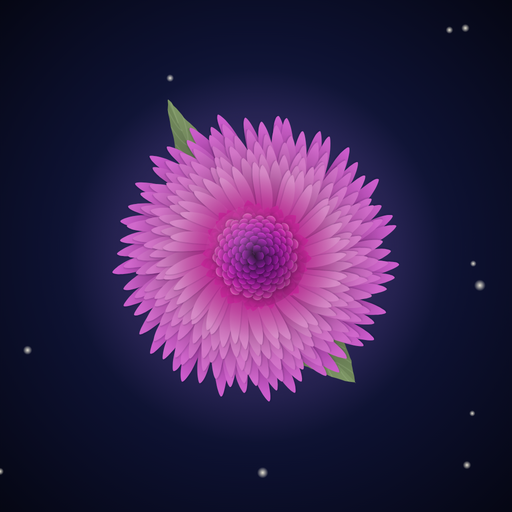
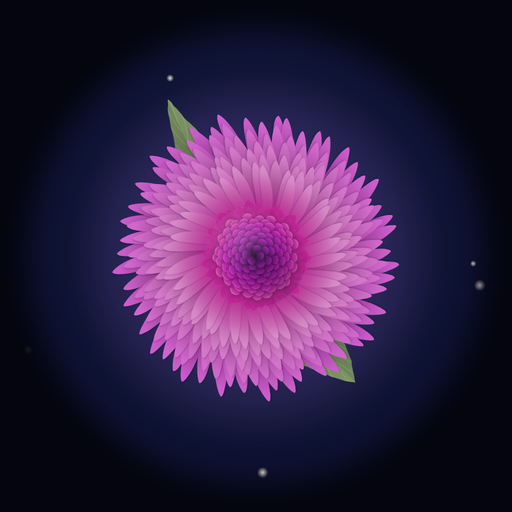
앱 아이콘: 바탕이 가장자리에서 실행 화면 바탕색(#04050f)으로 스러지게 — 처음 뜰 때 네모 경계가 보이지 않게
Claude-Session: https://claude.ai/code/session_011uarRdNqR6YjqzYxG4Jp2E

diff --git a/index.html b/index.html
@@ -36,11 +36,11 @@
 </script>
 <meta name="viewport" content="width=device-width,initial-scale=1,viewport-fit=cover">
 <title>서천꽃밭</title>
-<link rel="manifest" href="manifest.webmanifest?v=2">
-<link rel="apple-touch-icon" href="apple-touch-icon.png?v=2">
-<link rel="icon" href="favicon.ico?v=2" sizes="any">
-<link rel="icon" type="image/png" sizes="32x32" href="favicon-32.png?v=2">
-<link rel="icon" type="image/png" sizes="192x192" href="icon-192.png?v=2">
+<link rel="manifest" href="manifest.webmanifest?v=3">
+<link rel="apple-touch-icon" href="apple-touch-icon.png?v=3">
+<link rel="icon" href="favicon.ico?v=3" sizes="any">
+<link rel="icon" type="image/png" sizes="32x32" href="favicon-32.png?v=3">
+<link rel="icon" type="image/png" sizes="192x192" href="icon-192.png?v=3">
 <meta name="theme-color" content="#04050f">
 <meta name="mobile-web-app-capable" content="yes">
 <meta name="apple-mobile-web-app-capable" content="yes">
